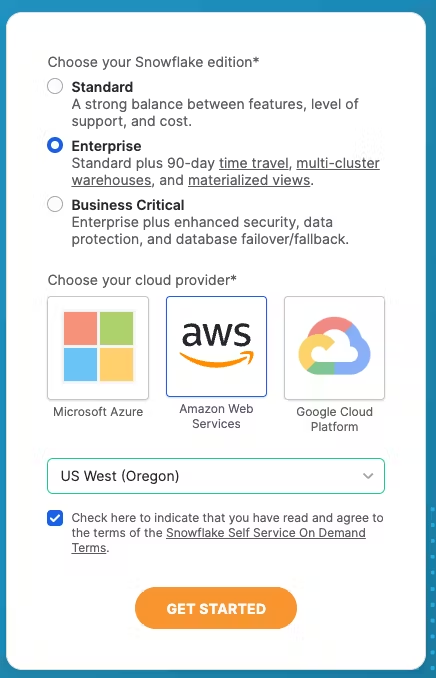
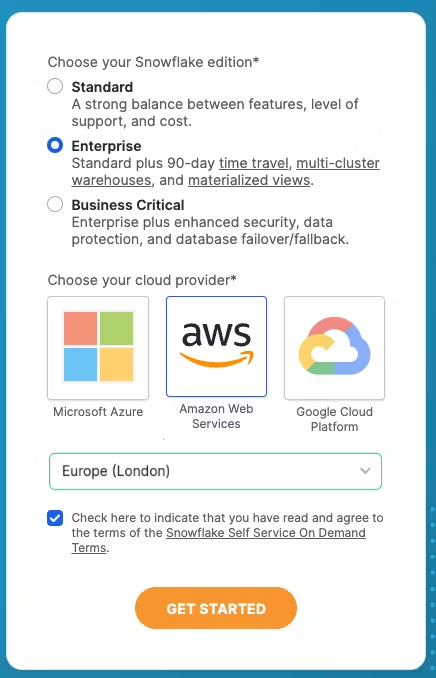
MINOR changes

Changed region(s): [[0.0894, 0.6504, 0.8945, 0.7434]]

diff --git a/site/sfguides/src/using_snowflake_cortex_and_streamlit_with_geospatial_data/using_snowflake_cortex_and_streamlit_with_geospatial_data.md b/site/sfguides/src/using_snowflake_cortex_and_streamlit_with_geospatial_data/using_snowflake_cortex_and_streamlit_with_geospatial_data.md
@@ -34,9 +34,12 @@ In this quickstart, we will be leveraging the the tools within Snowflake to:
   - **Visualise**  the data using Streamlit
 
 ### Prerequisites
-- A new free trial of Snowflake in **a region of you choice**.
+- A new free trial of Snowflake in **a region of you choice***.
 
+ 
 ![alt text](assets/I001.png)
+
+**Note**:  All datasets for this dataset used are either frequently replicated or originate in AWS London.  If you choose an alternative location, you may need to wait 10 minutes for the replication process to finish.
 
 
 ### What You’ll Learn 
@@ -800,7 +803,7 @@ all_3 = object1.join(object2,'MP')
 all_3 = all_3.join(object3,'MP')
 
 all_3.write.mode('overwrite').save_as_table("DATA.EVENTS_AND_WHAT_IS_AFFECTED")
-
+session.table('DATA.EVENTS_AND_WHAT_IS_AFFECTED')
 ```
 
 ![events_map](assets/I024.png)
@@ -843,7 +846,7 @@ Call the LLM with the prompt by copying the code below into a new cell. You may 
 
 ```python
 
-letters = all_3.select('MP',call_function('SNOWFLAKE.CORTEX.COMPLETE','mixtral-8x7b',prompt).alias('LETTER'))
+letters = all_3.select('MP','"MP Email Address"', call_function('SNOWFLAKE.CORTEX.COMPLETE','mixtral-8x7b',prompt).alias('LETTER'))
 letters.write.mode('overwrite').save_as_table("DATA.LETTERS_TO_MP")
 
 ```
@@ -1156,11 +1159,17 @@ You will now be creating another streamlit app in order to visualise the results
 
 Below is sample code which takes what we have learnt to create a streamlit with all the places event, location and incident data that from the shared datasets as well as synthetic data.
 
-You will need to install **pydeck**.  Go to packages and add **pydeck** to the streamlit app before you paste the app code.
+You will need to install **pydeck**.  
+
+- Go back to the home page and add a new streamlit application using the same database, schema and warehouse as the previous app.
 
 
+- Go to packages and add **pydeck** to the streamlit app before you paste the app code.
 
-Copy and paste this into a streamlit app under the BUILD_UK Streamlits schema.  NB - you will need to add the pydeck package before the streamlit will run.
+    ![alt text](assets/packages_option.png)
+
+- After you have installed pydeck, delete the default contents of the newly created app
+-   Copy and paste the code from below
 
 ```python
 
@@ -1383,7 +1392,7 @@ Duration: 10
 
 During the lab we have produced quite a bit of unstructured data from social media posts, to incidents, through to letters.  Now lets use vector embedding functionality to make this information searchable.  This is really useful when you would like to use an LLM to answer questions but do not want to send the entire dataset as a large object - which could be quite expensive and also would take a long time to run.  For large text blocks, you may wish to 'chunk' the data first.  As the text in this scenario is relatively small - we will keep it as is.
 
-Download the following python notebook file
+Click here and download the notebook from GitHub
 
 [**Vector_Embeddings.ipynb**](https://github.com/Snowflake-Labs/sfguide-using-snowflake-cortex-and-streamlit-with-geospatial-data/blob/main/Vector_Embeddings.ipynb)
 
